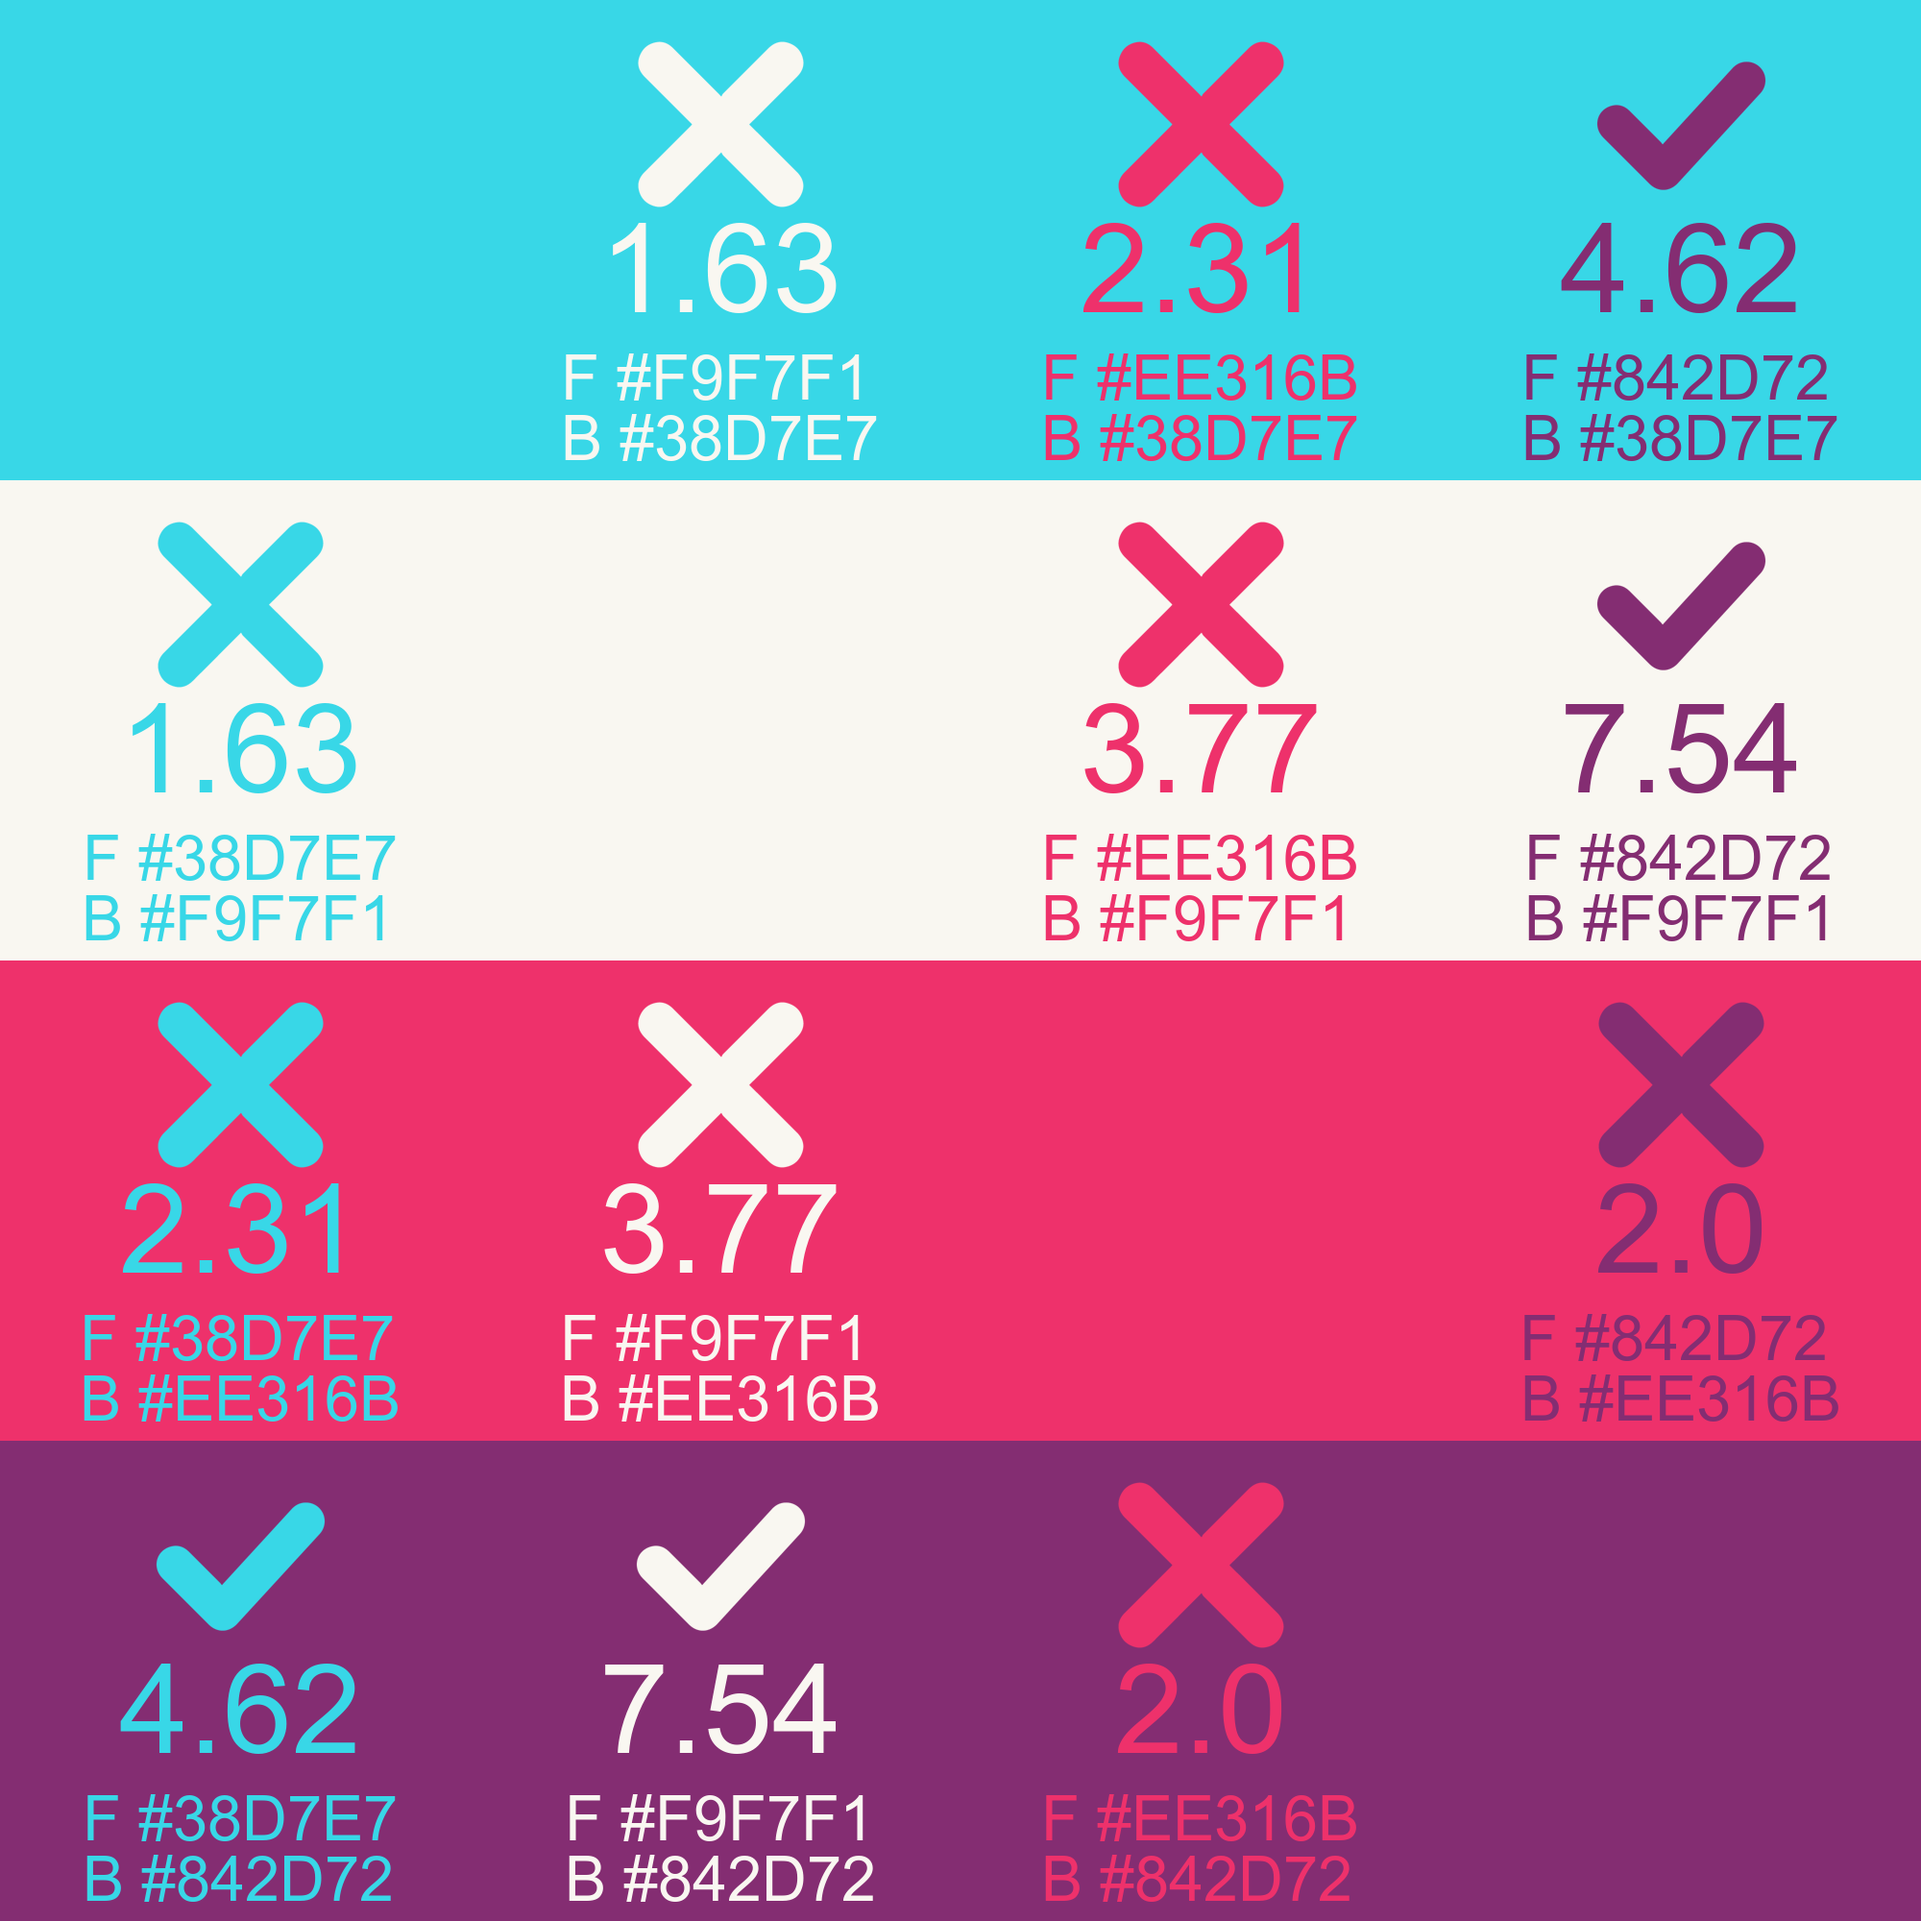
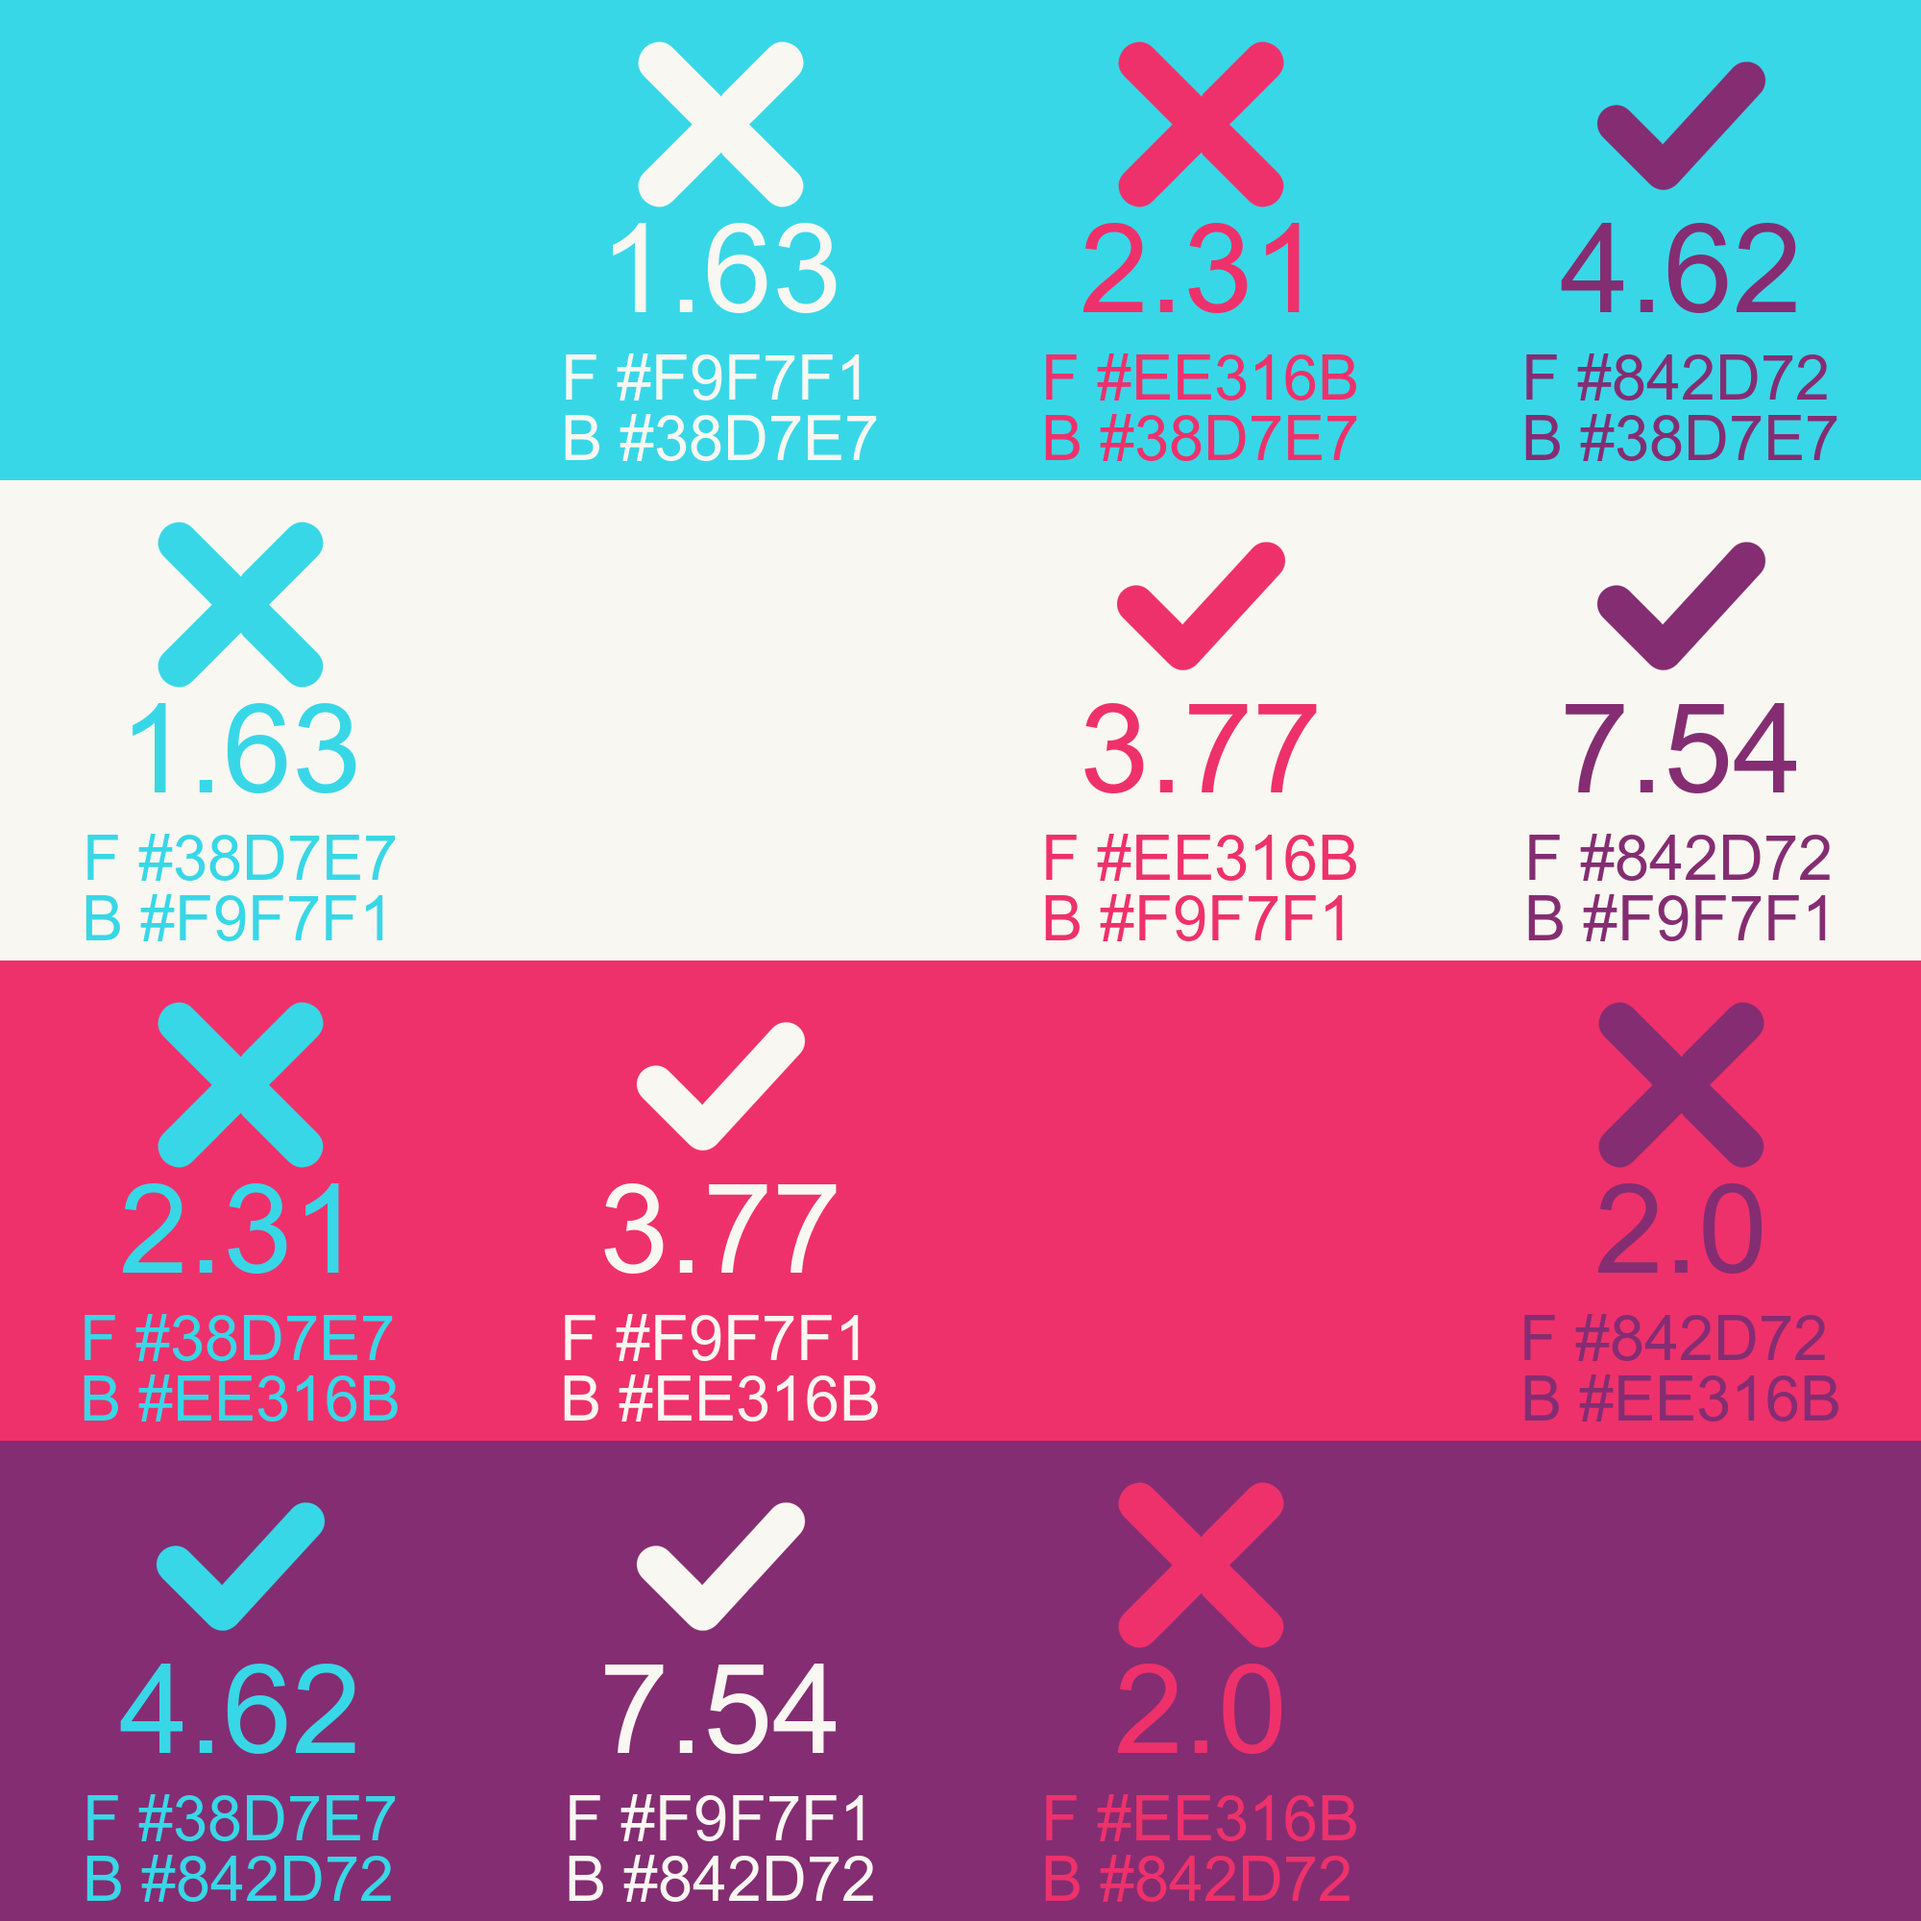
readme edits

Changed region(s): [[0.558, 0.248, 0.682, 0.372], [0.31, 0.527, 0.434, 0.62]]

diff --git a/contrast.py b/contrast.py
@@ -205,7 +205,7 @@ if __name__ == '__main__':
     
     # print(f"\n\tcontrast: {contrastMin}\n\thexList: {hexList}")
 
-    square=imageContrastExample(hexList[0],hexList[1],contrastMin)
+    square=imageContrastExample("#F9F7F1","#EE316B",contrastMin)
     square.save("graphics\example_squareContrast.png")
 
     hexSquare = listSquare(hexList)

diff --git a/readme.md b/readme.md
@@ -1,15 +1,15 @@
 # Colour Contrast checker
-I needed something that would allow me to check the colour contrast ratios of lots of colours at once, so i made it
+This quick little script will give you colour contrast info about a set of colours. The colour info is based on guidelines set by the [WACG](https://www.w3.org/WAI/WCAG21/Understanding/contrast-minimum.html)
 
 ## The output
-A grid of the contrast, made by `squareGrid()` has input of `4.5` and `#38D7E7 #F9F7F1 #EE316B #842D72`
+A grid of the contrast, made by `squareGrid()` has input of `3` and `#38D7E7 #F9F7F1 #EE316B #842D72`
 
-<img src="graphics\example_gridContrast_blanks.png"  width="60%">
+<img src="graphics\example_gridContrast_blanks.png"  width="50%">
 
 Note that on the diagonal, the colours are identical and as such nothing is seen, the contrast ratio is exactly 1 (no contrast)
 
 Single contrast example, made by `imageContrastExample()` </br>
-<img src="graphics\example_squareContrast.png"  width="30%">
+<img src="graphics\example_squareContrast.png"  width="40%">
 
 ## Input
 Each of these values accept one of the dotpoints as an input
